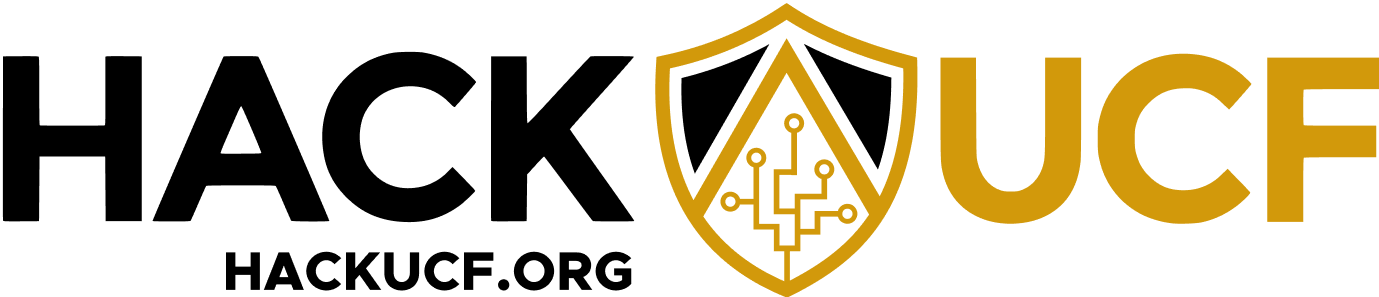
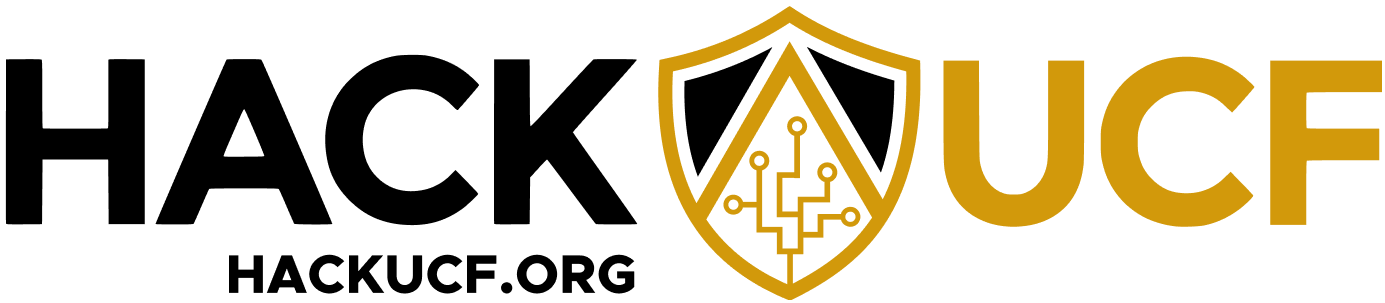
Added transparent pics for all sponsors
All sponsors with black inside them now have glow trim.
How to create this?
0. Add 6px canvas size to both height and width
1. Duplicate the layer in Paint.NET
2. Switch to the bottom-most layer
3. Remove the colors you don't want to hit with a glow on the outside (ie, Gold for Hack@UCF logo)
4. Set the luminosity to 100% to convert the bottom layer to a white mask
5. Add glow to the bottom layer
6. Save as flattened PNG.

The image will now have glow around the border, but it's only visible in dark mode.

diff --git a/index.html b/index.html
@@ -133,7 +133,7 @@
               </div>
               <div id="logos" class="col">
                 <a href="https://darkwolfsolutions.com/">
-                  <img class="img-fluid d-block mx-auto" id="poster" src="/img/sponsors/DarkWolfSolutions.webp"
+                  <img class="img-fluid d-block mx-auto" id="poster" src="/img/sponsors/DarkWolfSolutions.png"
                     width="450" alt="Sponsor: Dark Wolf">
                 </a>
               </div>
